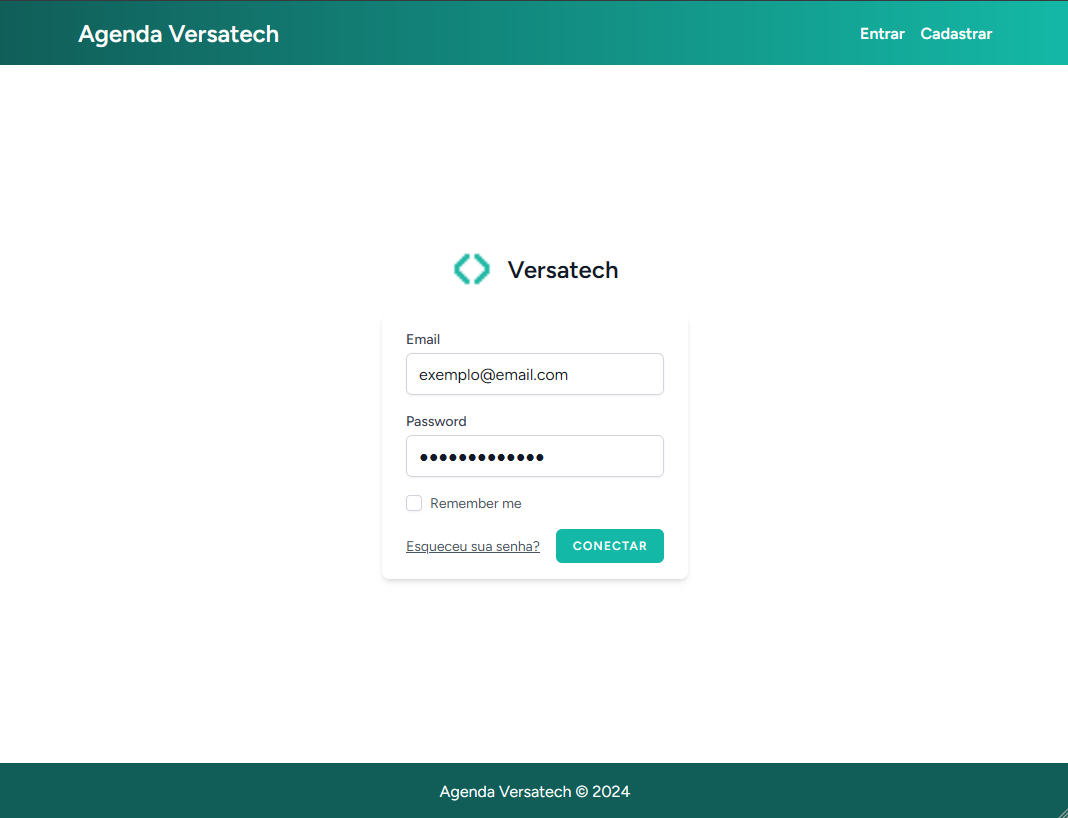
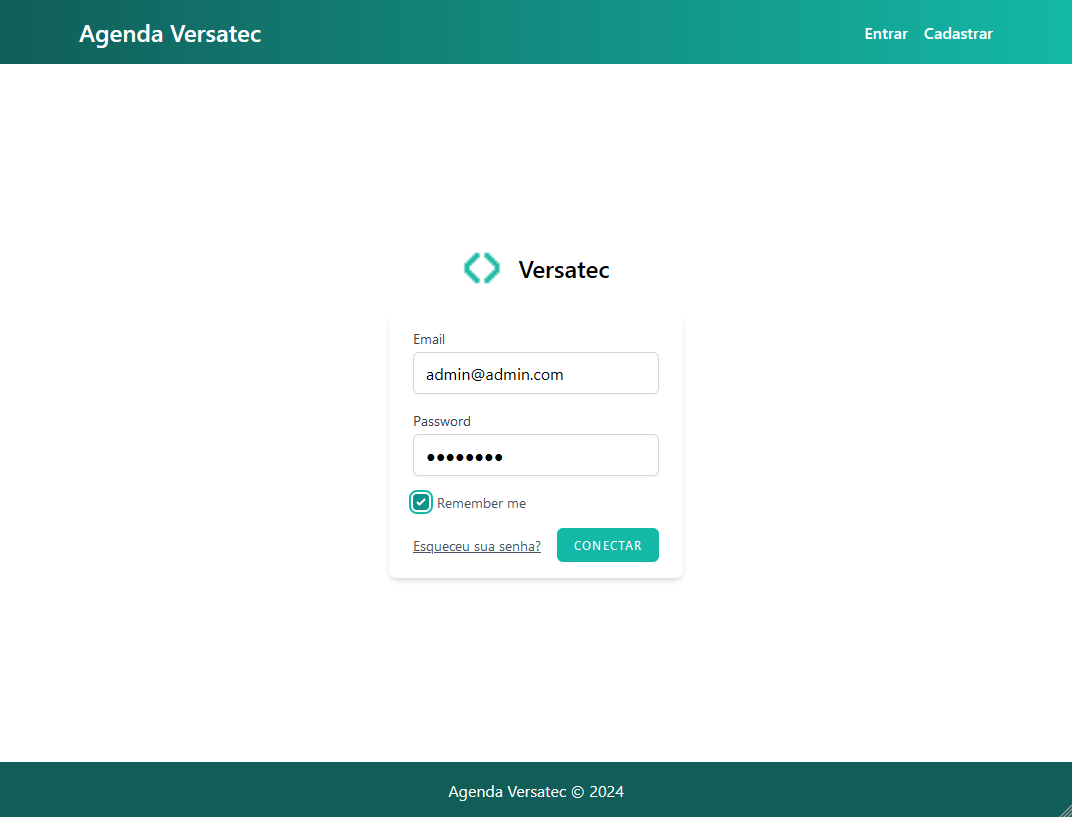
readme

diff --git a/resources/views/layouts/layout.blade.php b/resources/views/layouts/layout.blade.php
@@ -4,14 +4,14 @@
     <meta charset="UTF-8">
     <meta name="viewport" content="width=device-width, initial-scale=1.0">
     <meta http-equiv="X-UA-Compatible" content="ie=edge">
-    <title>Versatech - @yield('title')</title>
+    <title>Versatec - @yield('title')</title>
     @vite('resources/css/app.css')
     <link rel="icon" type="image/x-icon" href="{{ asset('favicon.ico') }}">
 </head>
 <body class="flex flex-col h-screen">
 
     <header class="py-4 flex gap-2 md:gap-0 md:flex-row flex-col justify-between items-center w-full px-4 sm:px-20 bg-gradient-to-r from-teal-800 to-teal-500 text-white">
-        <a href="{{ route('home') }}" class="text-2xl font-semibold sm:self-center">Agenda Versatech</a>
+        <a href="{{ route('home') }}" class="text-2xl font-semibold sm:self-center">Agenda Versatec</a>
         <ul class="flex gap-4 items-center font-semibold self-center sm:self-center">
             @auth
                 <li class="hover:text-teal-100"><a href="{{ route('home') }}">Minhas Atividades</a></li>
@@ -50,7 +50,7 @@
     </main>
 
     <footer class="py-4 flex justify-center w-full bg-teal-800 text-white">
-        <p>Agenda Versatech &copy; 2024</p>
+        <p>Agenda Versatec &copy; 2024</p>
     </footer>
 
     <script type="module" src="https://unpkg.com/ionicons@7.1.0/dist/ionicons/ionicons.esm.js"></script>

diff --git a/resources/views/components/authentication-card-logo.blade.php b/resources/views/components/authentication-card-logo.blade.php
@@ -1,4 +1,4 @@
 <a href="/" class="flex gap-4 items-center">
     <img src="{{ asset('favicon.ico') }}" alt="" class="size-10">
-    <h1 class="text-2xl font-semibold">Versatech</h1>
+    <h1 class="text-2xl font-semibold">Versatec</h1>
 </a>

diff --git a/README.md b/README.md
@@ -1,6 +1,6 @@
-<p align="center"><img src="public/readme/desafio.png" width="600" alt="Versatech Logo"></p>
+<p align="center"><img src="public/readme/desafio.png" width="600" alt="Versatec Logo"></p>
 
-# Desafio Versatech Agenda
+# Desafio Versatec Agenda
 Desenvolver uma agenda utilizando as tecnologias PHP e Mysql juntamente com o Framework Laravel
 
 ## Tabela de Conteúdo
@@ -20,6 +20,7 @@ Desenvolver uma agenda utilizando as tecnologias PHP e Mysql juntamente com o Fr
 	- [Tecnologias](#tecnologias)
 	- [MVC](#mvc)
 	- [Funcionalidades](#funcionalidades)
+	- [Layout Responsivo](#layout-responsivo)
 	- [Diagrama de Entidade e Relacionamento](#diagrama-de-entidade-e-relacionamento)
 
 # O Desafio
@@ -139,17 +140,21 @@ Para a criação dos templates da view, foi utilizado o blade.
 - **store()**: Método responsável por armazenar no banco de dados uma nova atividade.
 - **show($id)**: Método responsável por retornar uma view com detalhes de uma atividade através do id referente à atividade.
 
+## Layout Responsivo
+
+<p align="center"><img src="public/readme/responsive-layout.gif" width="600" alt="Layout Responsivo"></p>
+
 ## Funcionalidades
 - Login
-  <p><img src="public/readme/img-login.png" width="600" alt="Versatech Logo"></p>
+  <p><img src="public/readme/img-login.png" width="600" alt="Tela de Login"></p>
 - Registro de Atividades
-  <p><img src="public/readme/img-store-task.png" width="600" alt="Versatech Logo"></p>
+  <p><img src="public/readme/img-store-task.png" width="600" alt="Tela Registro de Atividades"></p>
 - Listar Minhas Atividades
-  <p><img src="public/readme/img-tasks-user.png" width="600" alt="Versatech Logo"></p>
+  <p><img src="public/readme/img-tasks-user.png" width="600" alt="Tela Listar Minhas Atividades"></p>
 - Listar Registro de Atividades da Empresa
-  <p><img src="public/readme/img-tasks-all.png" width="600" alt="Versatech Logo"></p>
+  <p><img src="public/readme/img-tasks-all.png" width="600" alt="Tela Listar Registro de Atividades da Empresa"></p>
 - Filtro de atividades por Título ou Data
-  <p><img src="public/readme/img-filter.png" width="600" alt="Versatech Logo"></p>
+  <p><img src="public/readme/img-filter.png" width="600" alt="Tela Filtro de atividades por Título ou Data"></p>
 
 ## Diagrama de Entidade e Relacionamento
-<p><img src="public/readme/DER.png" width="600" alt="Versatech Logo"></p>
+<p><img src="public/readme/DER.png" width="600" alt="Diagrama de Entidade e Relacionamento"></p>
